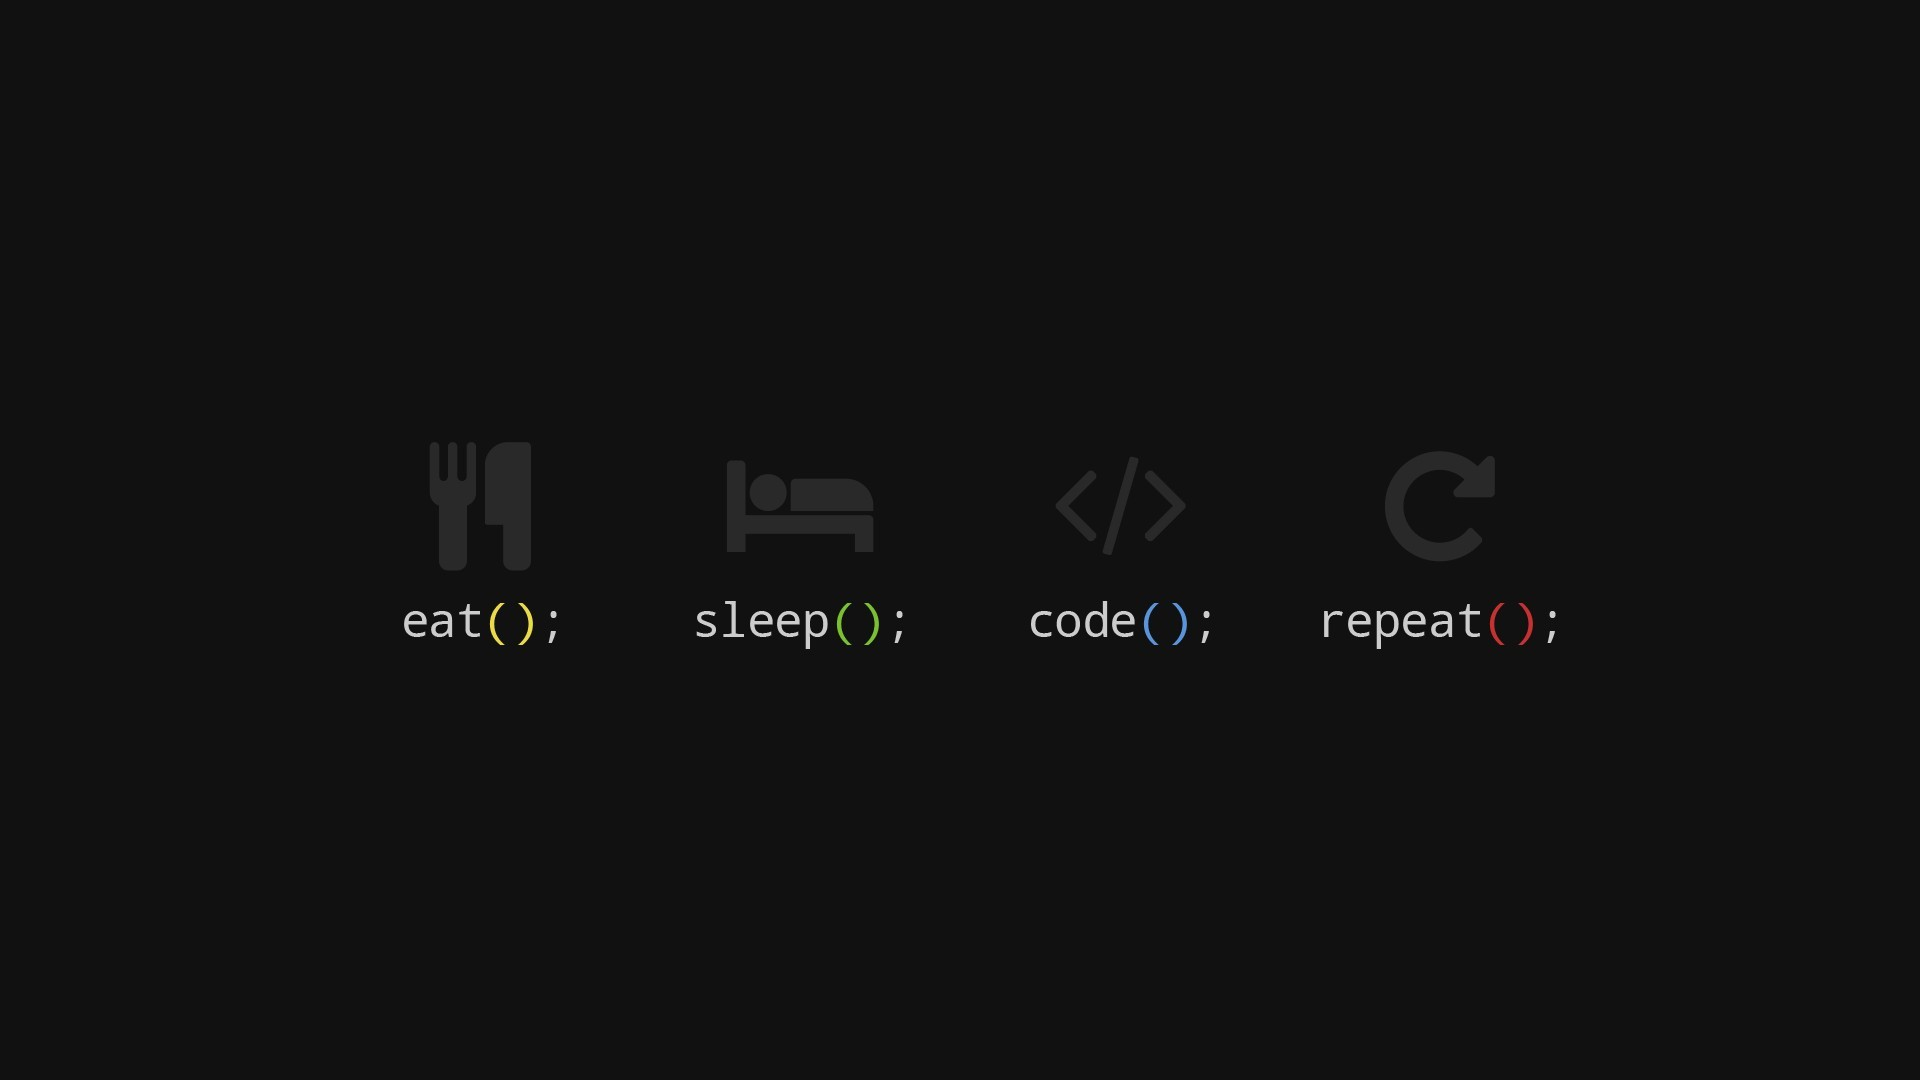
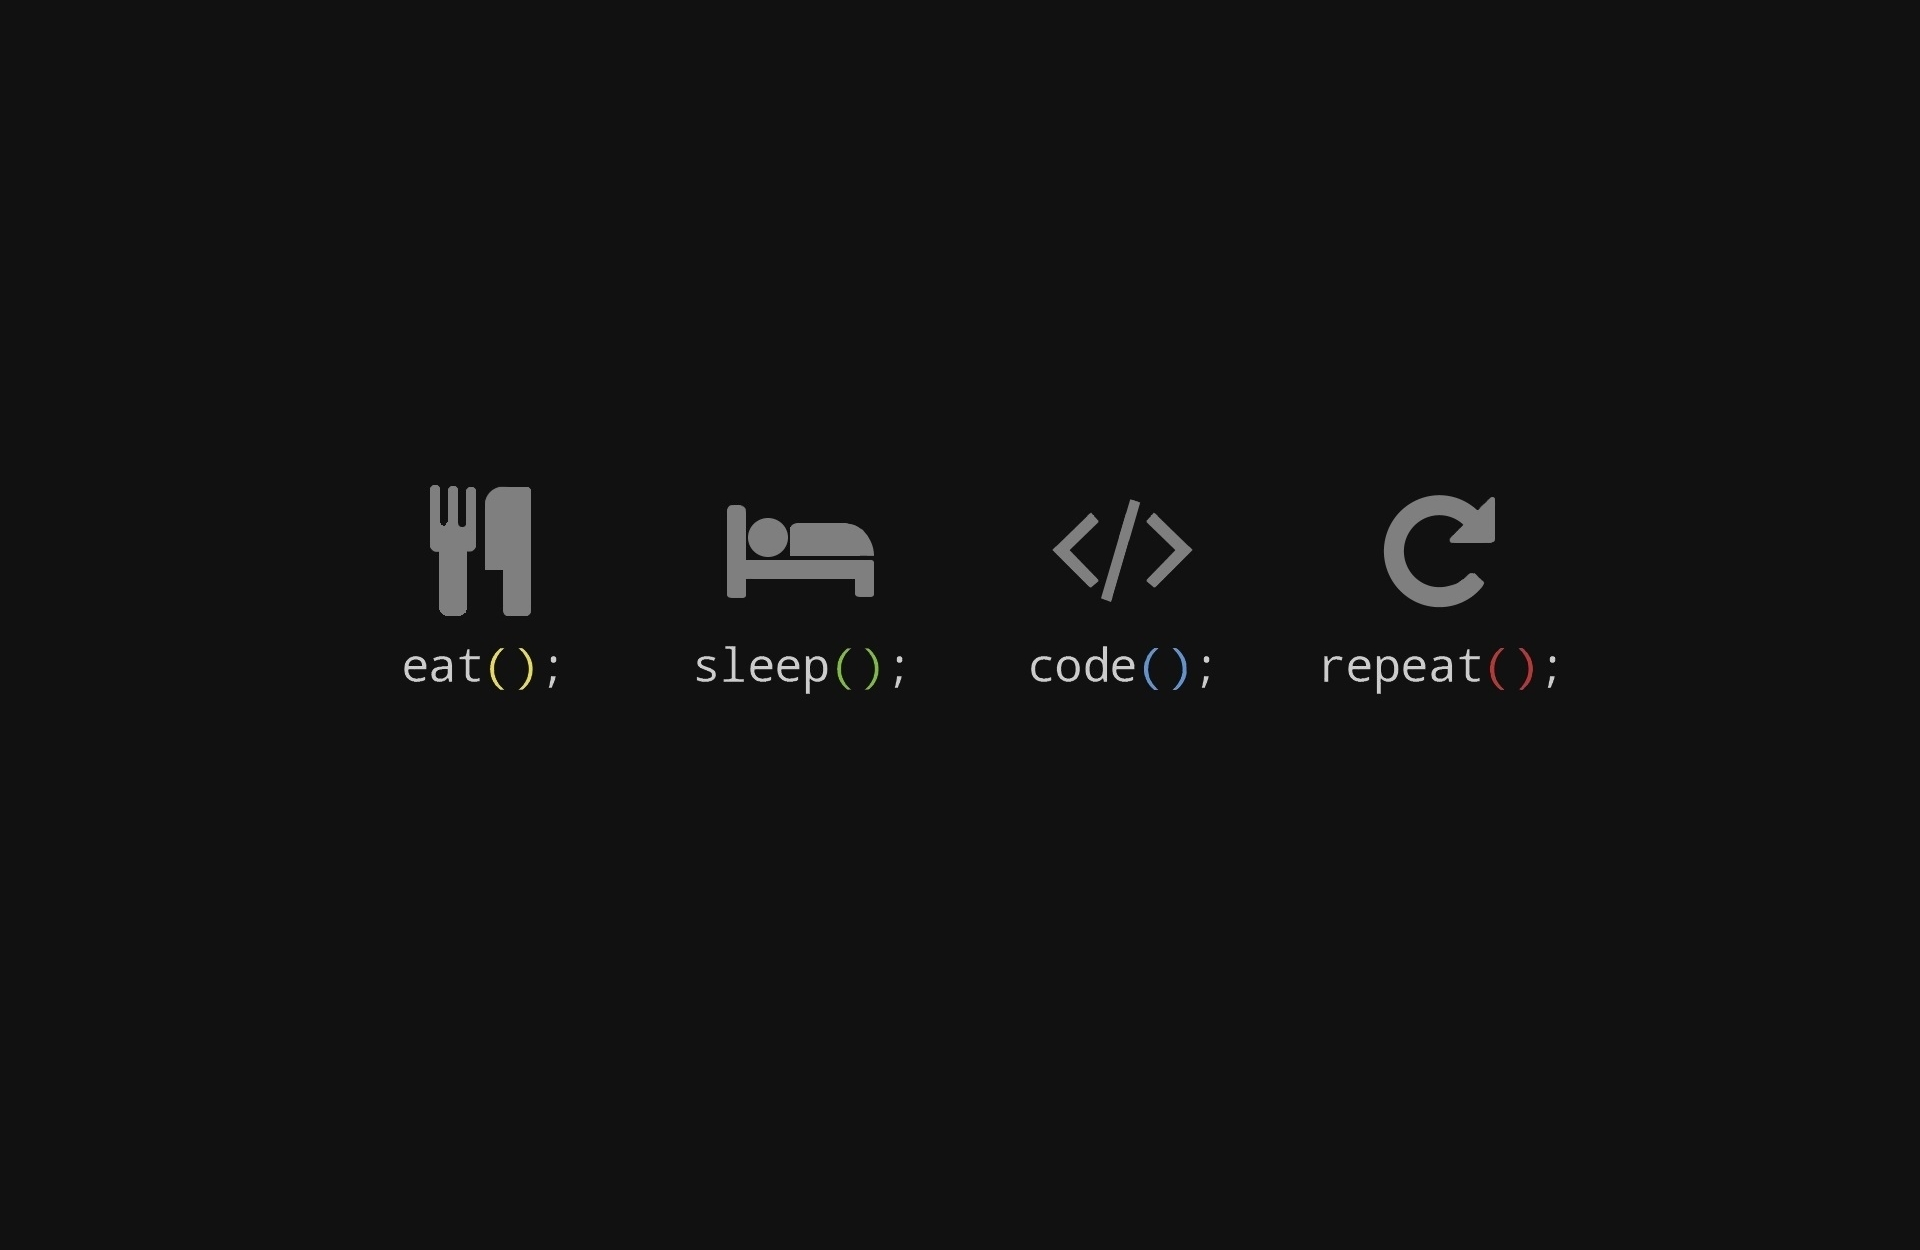
4-step header with css

diff --git a/css/agency.css b/css/agency.css
@@ -174,7 +174,7 @@ header.masthead {
 	padding-top: 400px;
 	text-align: center;
 	color: white;
-	background-image: url("../img/4-steps.jpg");
+	background-image: url("../img/4-steps-min.jpg");
 	background-repeat: no-repeat;
 	background-attachment: scroll;
 	background-position: center center;
@@ -206,6 +206,10 @@ header.masthead .intro-text .intro-heading {
 }
 
 @media (min-width: 768px) {
+header.masthead {
+	background-image: url("../img/4-steps.jpg");
+}
+	
   header.masthead .intro-text {
     padding-top: 300px;
     padding-bottom: 200px;
